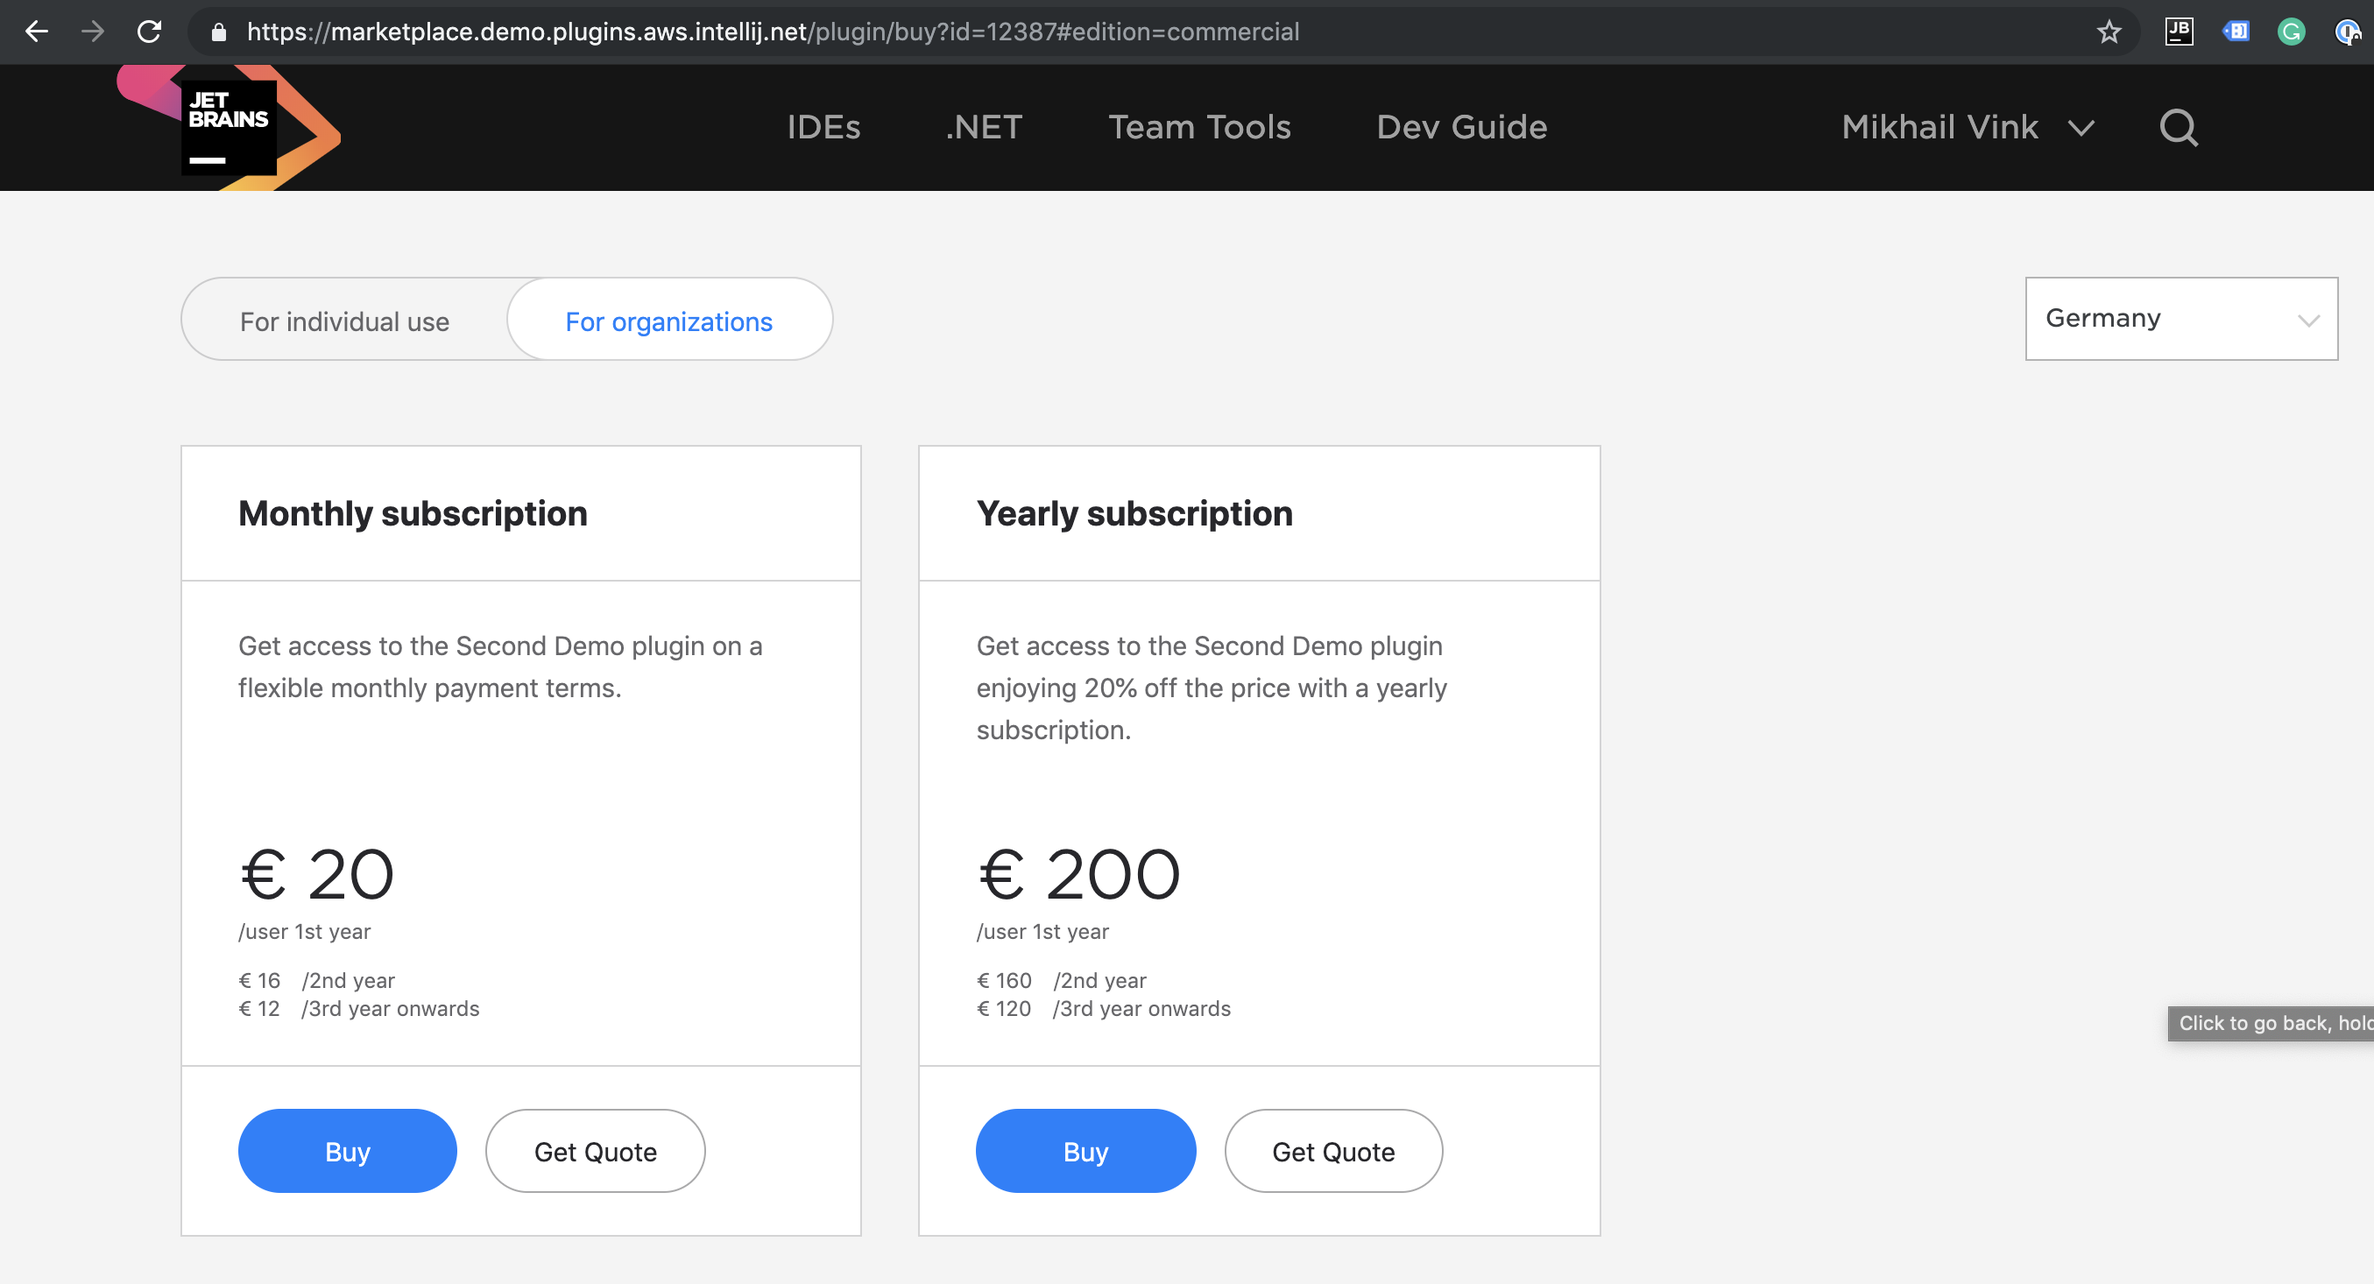
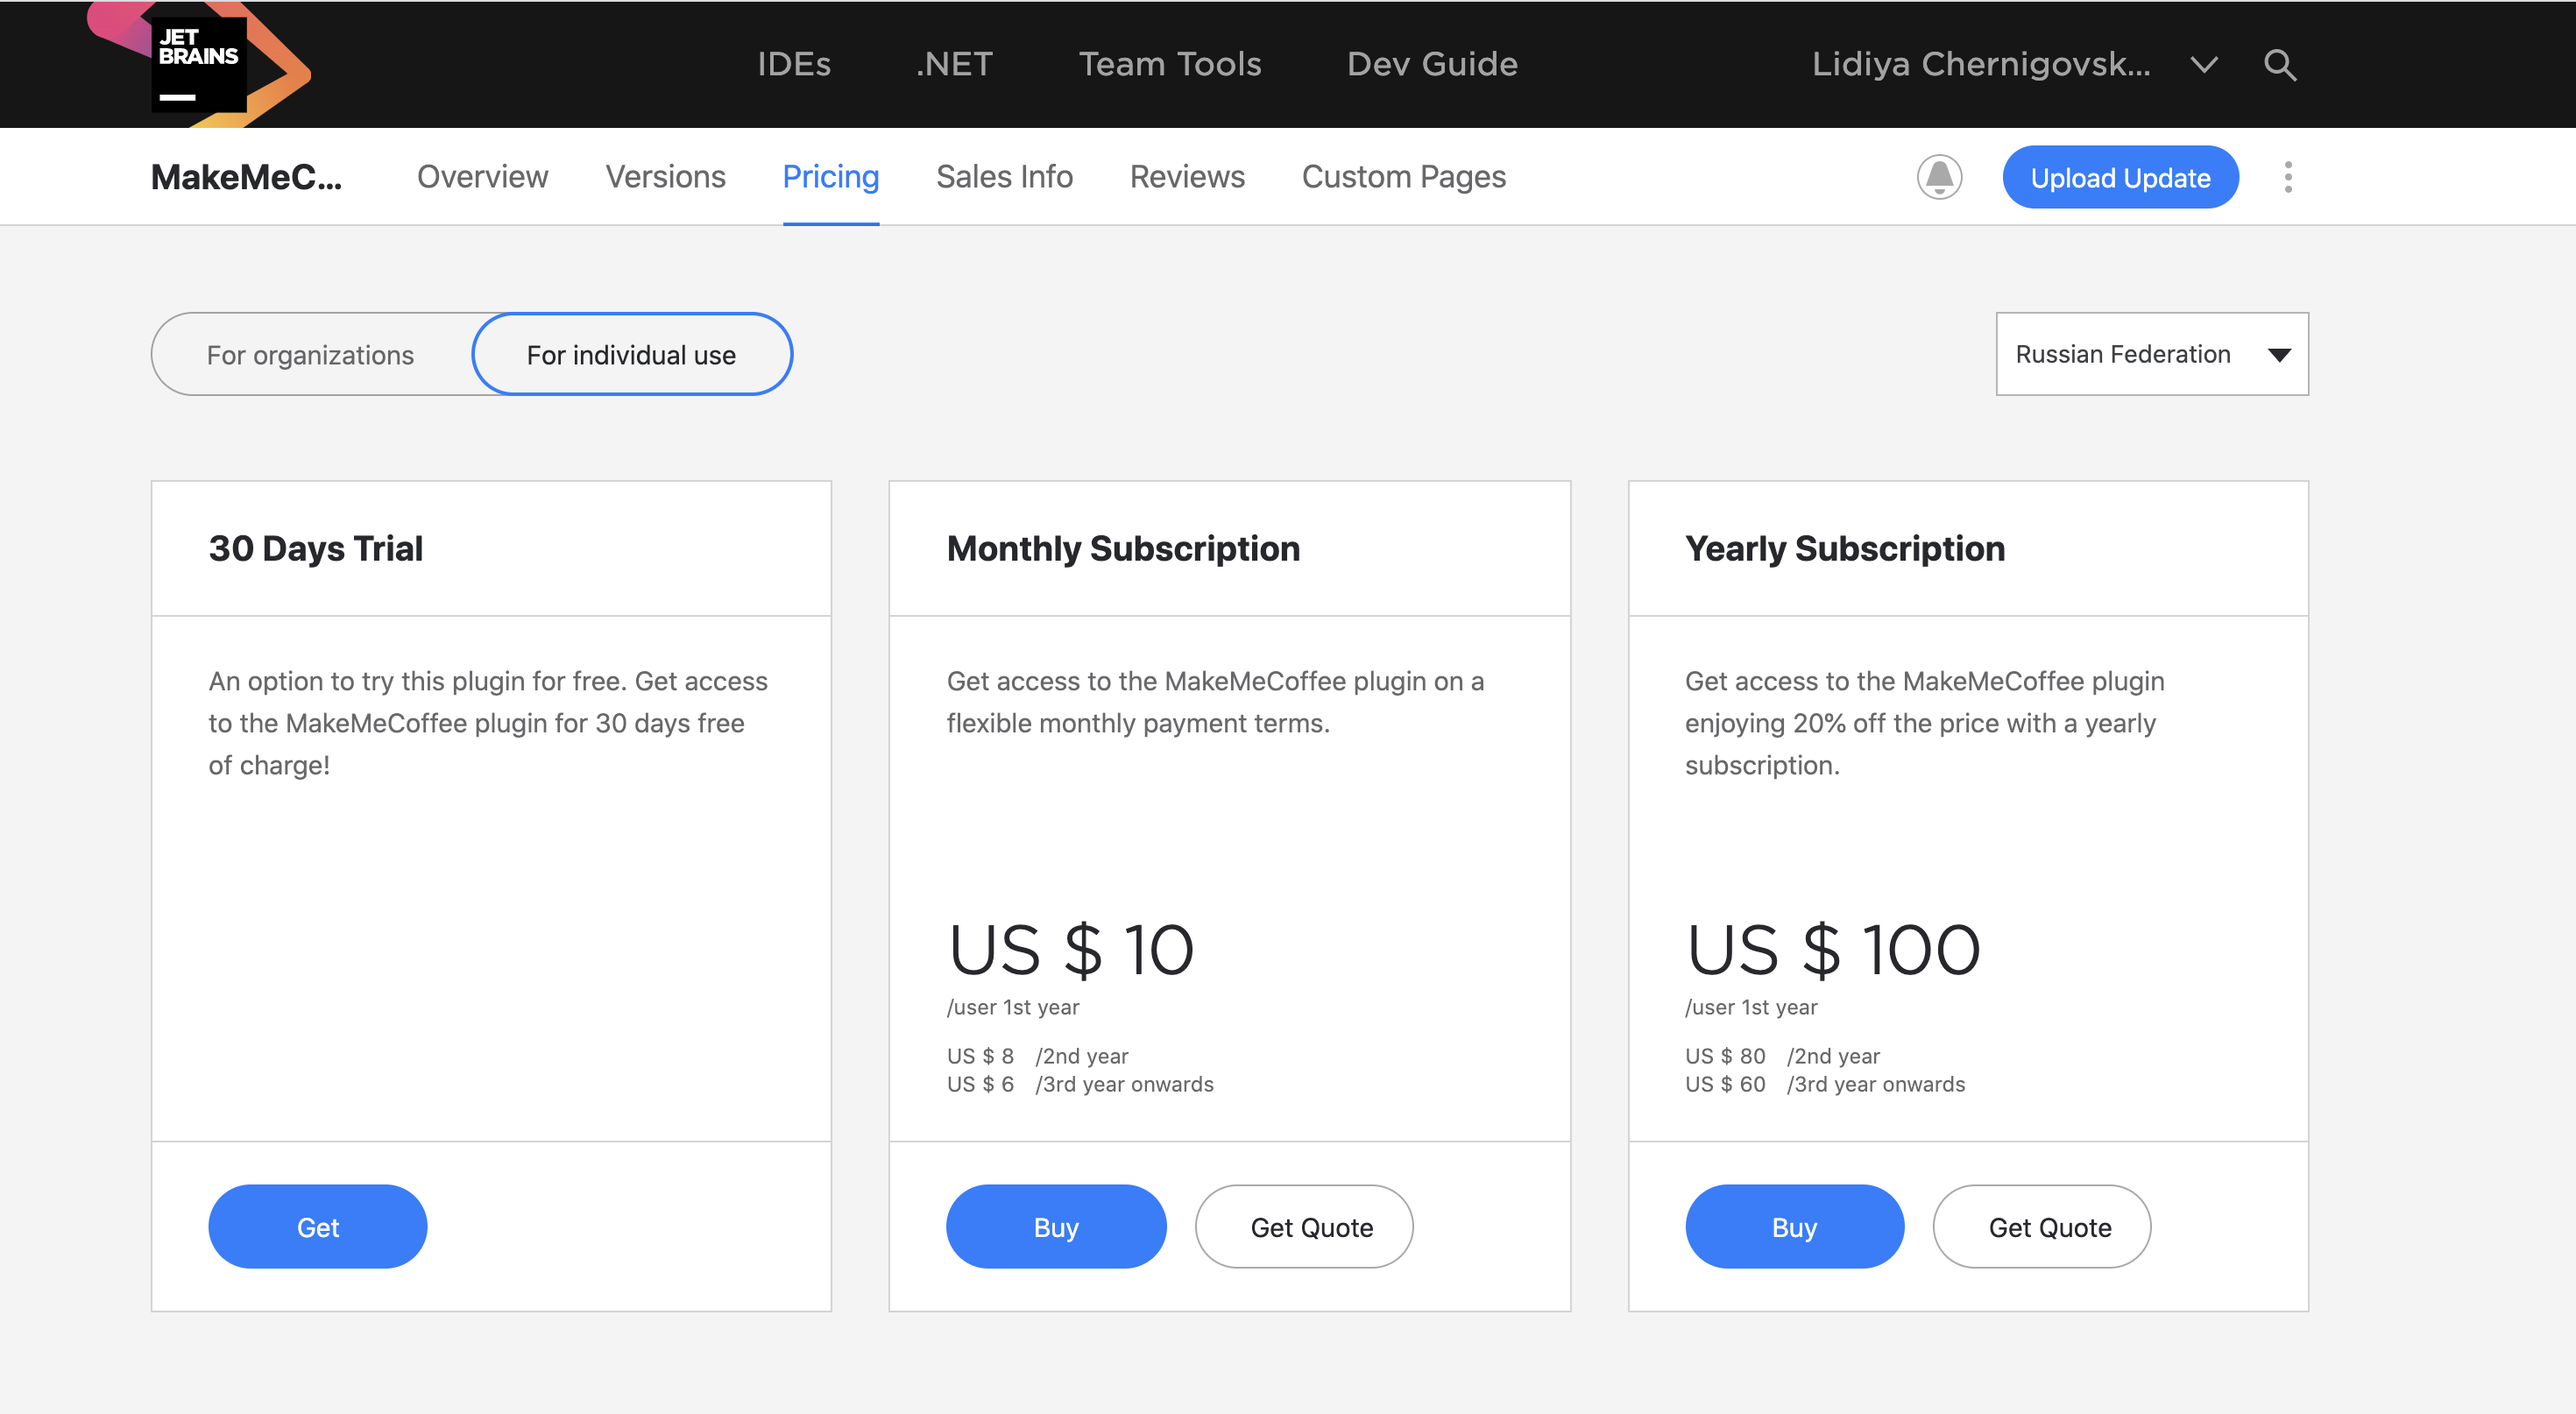
Fix information about demo

diff --git a/topics/paid-plugins-start/test-the-plugin-licensing-on-the-demo-instance.md b/topics/paid-plugins-start/test-the-plugin-licensing-on-the-demo-instance.md
@@ -34,13 +34,13 @@ Password: FJKDr478fdjhsj__
 
 ## Test Setup at the Marketplace Demo Instance
 
-1. Access the Marketplace Demo instance at [https://marketplace.demo.plugins.aws.intellij.net/](https://marketplace.demo.plugins.aws.intellij.net/), use credentials you have obtained from JetBrains. Unfortunately, you can't use the "sign in via Google Account" option as we can't connect it to non-JetBrains emails (JetBrains Team should use "sign in via Google Account" option exclusively), use the username/password option:
+1. Access the Marketplace Demo instance at [https://master.demo.marketplace.intellij.net/](https://master.demo.marketplace.intellij.net/), use credentials you have obtained from JetBrains. Unfortunately, you can't use the "sign in via Google Account" option as we can't connect it to non-JetBrains emails (JetBrains Team should use "sign in via Google Account" option exclusively), use the username/password option:
 
     ![Marketplace Sign In](marketplace_sign_in.png)
 
     **(!!!) Make sure to change the password on the first sign in.**
 
-1. Upload update of your plugin (if existing) or a new plugin (if new) to the Marketplace Demo instance, use a standard procedure using the update plugin page (for existing plugin) and upload plugin page (for a new plugin.)
+1. Create an [Organization](https://plugins.jetbrains.com/docs/marketplace/organizations.html) for you plugin. Upload update of your plugin (if existing) or a new plugin (if new) to the Marketplace Demo instance, use a standard procedure using the update plugin page (for existing plugin) and upload plugin page (for a new plugin). Transfer this plugin to the organization.
 
     Please note that to upload the plugin, you need to sign in to the application with your normal Hub ([https://hub.jetbrains.com](https://hub.jetbrains.com)) account, the same as you use on the production instance.
 
@@ -104,29 +104,25 @@ jb.service.configuration.url=https://mp.jpf-demo.aws.intellij.net/testservices/J
  
 ### Configuring the IDE to work with a test Plugins Repository
 
-Marketplace Demo runs on the test server [https://marketplace.demo.plugins.aws.intellij.net/](https://marketplace.demo.plugins.aws.intellij.net/).
+Marketplace Demo runs on the test server [https://master.demo.marketplace.intellij.net/](https://master.demo.marketplace.intellij.net/).
 
 The IDE has to be additionally configured to work with it instead of the production Plugins Repository.
 
 `Use Help | Edit Custom VM Options...` to open the `Intellij IDEA 2018.2.app.vmoptions` file (or similar depends on your version) in the editor and add
 
 ```
--Didea.plugins.host=https://marketplace.demo.plugins.aws.intellij.net/
+-Didea.plugins.host=https://master.demo.marketplace.intellij.net/
 ```
 
 Alternatively, you can add plugins to the IDE from disk.
 
 ## Where to get started with your Paid Plugin?
 
-As soon as your plugin is marked as Paid Plugin available for sale by JetBrains, you will see *Buy* button at the plugin page:
-
-![Plugin Buy](plugin_buy.png)
+As soon as your plugin is marked as Paid Plugin available for sale by JetBrains, you will see *Pricing* tab at the plugin page:
 
 ![Plugin Buy Page](plugin_buy_page.png)
 
-All the Marketplace-related information about the plugin is available on a service page **https://marketplace.demo.plugins.aws.intellij.net/marketplace/info?pluginId=`{ID}`** (the link is available at the Plugin Page - Marketplace.)
-
-![Plugin Information](plugin_info.png)
+All the Marketplace-related information about the plugin is available under *Sales Info* tab.
 
 ## How to buy a plugin license
 
@@ -138,7 +134,7 @@ Use the direct link to the shop: https://mp.jpf-demo.aws.intellij.net/shop/buy?i
 
 For quote: https://mp.jpf-demo.aws.intellij.net/shop/quote?item=P:N:{ID}:Y / https://mp.jpf-demo.aws.intellij.net/shop/quote?item=P:N:{ID}:M
 
-Or go to buy page from plugin overview: https://marketplace.demo.plugins.aws.intellij.net/plugin/{PLUGINID}
+Or go to buy page from plugin overview: https://master.demo.marketplace.intellij.net/plugin/{PLUGINID}
 
 ### Commercial license
 
@@ -146,7 +142,7 @@ Use the direct link on the shop: https://mp.jpf-demo.aws.intellij.net/shop/buy?i
 
 For quote: https://mp.jpf-demo.aws.intellij.net/shop/quote?item=C:N:{ID}:Y / https://mp.jpf-demo.aws.intellij.net/shop/quote?item=C:N:{ID}:M
 
-Or go to buy page from plugin overview: https://marketplace.demo.plugins.aws.intellij.net/plugin/{PLUGINID}
+Or go to buy page from plugin overview: https://master.demo.marketplace.intellij.net/plugin/{PLUGINID}
 
 ### Payment information on the checkout
 
@@ -170,7 +166,7 @@ Please use responsibly and don't use any confidential names/information there. P
 
 ## Useful Links Related to the Marketplace Demo Instance
 
-* [https://marketplace.demo.plugins.aws.intellij.net](https://marketplace.demo.plugins.aws.intellij.net) - Marketplace Demo
+* [https://master.demo.marketplace.intellij.net](https://master.demo.marketplace.intellij.net) - Marketplace Demo
 
 * [https://mp.jpf-demo.aws.intellij.net/login](https://mp.jpf-demo.aws.intellij.net/login) - JetBrains Account
 
